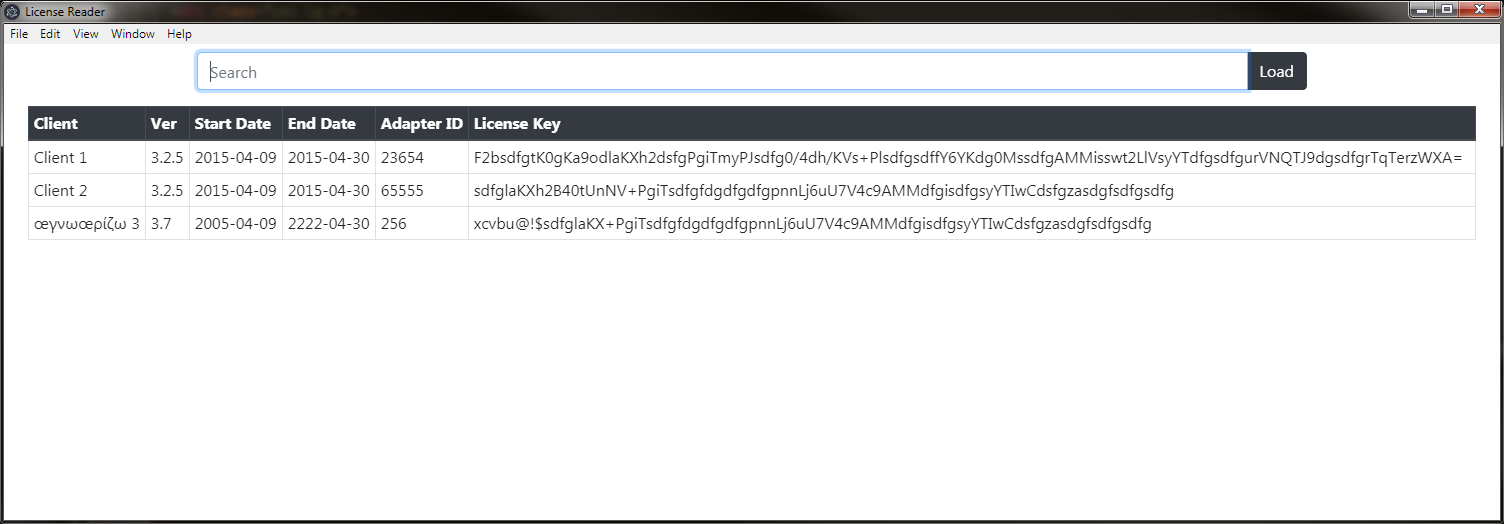
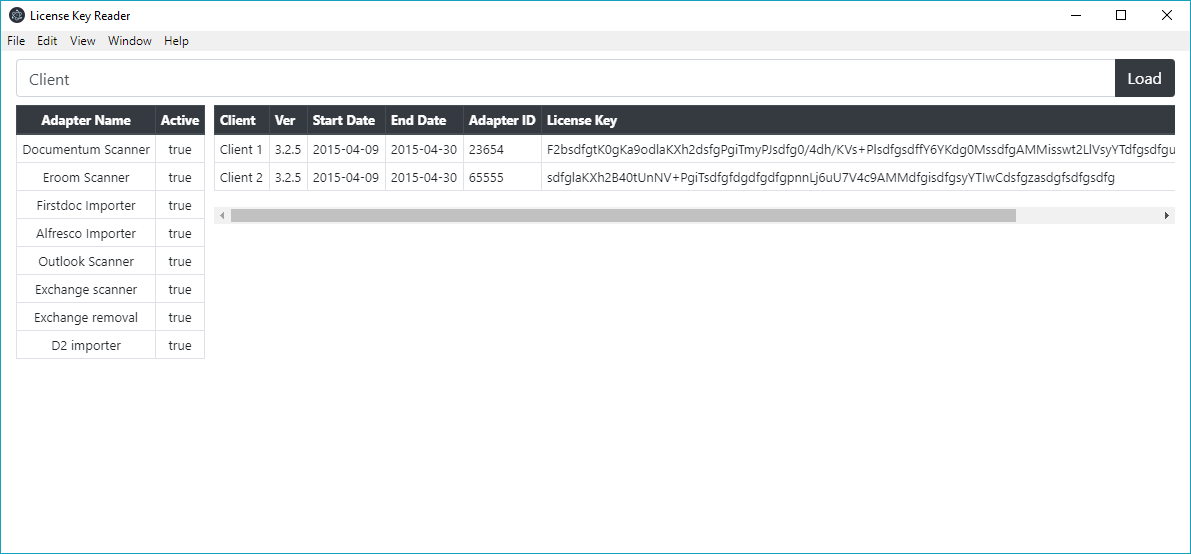
RC1 done

Changed region(s): [[0.0, 0.0, 1.0, 1.0]]

diff --git a/js/controller.js b/js/controller.js
@@ -4,7 +4,8 @@ window.Bootstrap = require('bootstrap')
 const LicenceList = require('./licenceList')
 
 var myLicences = null
-var licenseTable = document.getElementById('license-table')
+var tBody = document.getElementById('license-tbody')
+var aBody = document.getElementById('adapter-tbody')
 
 var loadButton = document.getElementById('loadButton')
 loadButton.addEventListener('click', _ => {
@@ -12,36 +13,20 @@ loadButton.addEventListener('click', _ => {
   // getLicences('//vms2/FileShare/MC/KeyGenerator/LicenseKeyLog.txt', './res/adapters.txt');
 })
 
-function insertTh (row, value) {
-  var cell = document.createElement('th')
-  cell.innerHTML = value
-  row.appendChild(cell)
+function licenseSelected (e) {
+  let adapterID = e.path[1].cells[4].innerHTML
+  myLicences.checkAdapters(adapterID, loadAdapterTable)
 }
 
 function insertTd (row, value) {
   var cell = document.createElement('td')
   cell.innerHTML = value
   row.appendChild(cell)
+  return cell
 }
 
-
 function loadLicenseTable () {
-  licenseTable.innerHTML = ''
-
-  let head = document.createElement('thead')
-  head.classList.add('thead-dark')
-  let row = document.createElement('tr')
-  insertTh(row, 'Client')
-  insertTh(row, 'Ver')
-  insertTh(row, 'Start Date')
-  insertTh(row, 'End Date')
-  insertTh(row, 'Adapter ID')
-  // insertTh(row, 'idk')
-  insertTh(row, 'License Key')
-  head.appendChild(row)
-  licenseTable.appendChild(head)
-
-  let body = document.createElement('tbody')
+  tBody.innerHTML = ''
   myLicences.licences.forEach((licence, index) => {
     let row = document.createElement('tr')
     insertTd(row, licence.companyName)
@@ -49,40 +34,28 @@ function loadLicenseTable () {
     insertTd(row, licence.beginDate)
     insertTd(row, licence.endDate)
     insertTd(row, licence.adapters)
-    // insertTd(row, licence.idkWhatThisis)
     insertTd(row, licence.licence)
-    body.appendChild(row)
+    row.classList.add('text-nowrap')
+    row.addEventListener('click', licenseSelected)
+    tBody.appendChild(row)
   })
-  licenseTable.appendChild(body)
-
-  var rows = body.getElementsByTagName('tr')
-  for (let i = 0; i < rows.length; i++) {
-    rows[i].addEventListener('click', (e) => {
-      let adapterID = e.path[1].cells[4].innerHTML
-      // myLicences.adapters[2].checkLicence(adapterID, loadAdapterTable)
-      myLicences.checkAdapters(adapterID, loadAdapterTable)
-      // console.log(e)
-      // console.log(adapterID)
-    })
-  }
 }
 
 function loadAdapterTable () {
-  let aBody = document.getElementById('adapter-tbody')
   aBody.innerHTML = ''
   myLicences.adapters.forEach((adapter) => {
     let row = document.createElement('tr')
     insertTd(row, adapter.name)
-    insertTd(row, adapter.isInLicence)
+    let td = insertTd(row, adapter.isInLicence)
+    if (td.innerHTML === 'true') {
+      row.classList.add('text-center', 'text-nowrap')
+      // row.classList.add('bg-success', 'text-white', 'text-center')
+    } else {
+      row.classList.add('d-none')
+      // row.classList.add('bg-white', 'text-dark', 'text-center')
+    }
     aBody.appendChild(row)
   })
-}
-
-function logData () {
-  console.log(myLicences)
-  // myLicences.adapters.forEach((adapter) => {
-  //   console.log(adapter.name + ': ' + adapter.isInLicence)
-  // })
 }
 
 function getLicences (licenceFile, adaptersFile) {

diff --git a/index.html b/index.html
@@ -13,6 +13,7 @@
 </head>
 
 <body>
+
   <div class="container-fluid my-2">
     <div class="row">
       <div class="col">
@@ -27,25 +28,35 @@
   </div>
 
   <div class="container-fluid d-flex">
-    <div class="row">
-      <div class="col-md-2 d-flex">
-        <table class="table table-sm table-bordered" id="adapter-table">
-          <thead class="thead-dark">
+    <div class="row d-flex flex-row">
+      <div class="col-md-2 d-flex flex-column">
+        <table class="table table-sm table-bordered table-hover" id="adapter-table">
+          <thead class="thead-dark text-center text-nowrap">
             <tr>
-              <td>Adapter Name</td>
-              <td>Active</td>
+              <th>Adapter Name</th>
+              <th>Active</th>
             </tr>
           </thead>
           <tbody id="adapter-tbody">
           </tbody>
         </table>
       </div>
-      <div class="col-md-10 d-flex">
-        <div class="container-fluid mx-2">
-          <div class="table-responsive">
-            <table class="table table-sm table-bordered table-hover" id="license-table">
-            </table>
-          </div>
+      <div class="col-md-10 d-flex flex-column">
+        <div class="table-responsive">
+          <table class="table table-sm table-bordered table-hover">
+            <thead class="thead-dark text-nowrap">
+              <tr>
+                <th>Client</th>
+                <th>Ver</th>
+                <th>Start Date</th>
+                <th>End Date</th>
+                <th>Adapter ID</th>
+                <th>License Key</th>
+              </tr>
+            </thead>
+            <tbody id="license-tbody">
+            </tbody>
+          </table>
         </div>
       </div>
     </div>
@@ -53,7 +64,7 @@
 
   <script>require('./js/controller')</script>
   <script>require('./js/filter.js')</script>
-  
+
 </body>
 
 </html>

diff --git a/js/licenceList.js b/js/licenceList.js
@@ -20,19 +20,18 @@ class Adapter {
   }
 
   checkLicence (licenseCode, done) {
-    this.isInLicence = !!((this.adapterID & licenseCode != 0))
-    console.log(licenseCode)
+    this.isInLicence = !!((parseInt(this.adapterID) & parseInt(licenseCode)) !== 0)
     done()
   }
 }
 
 class LicenceList {
   constructor () {
-    this.listHeaders = ['Client', 'Ver', 'Start', 'End', 'Adapter ID', 'idk', 'License Key']
     this.licences = []
     this.adapters = []
   }
 
+  // loadLicenses & loadAdapters need refactoring cause duplicate code
   loadLicences (fileName, updated) {
     let data = []
     const fs = require('fs')
@@ -47,7 +46,7 @@ class LicenceList {
       data.push(new LicenceItem(line))
     })
 
-    rl.on('close', () => {
+    rl.on('close', _ => {
       this.licences = data
       if (typeof (updated) === 'function') {
         updated()
@@ -81,10 +80,8 @@ class LicenceList {
     var len = this.adapters.length
     for (var i = 0; i < len; i++) {
       this.adapters[i].checkLicence(licenseCode, _ => {
-        if (i === len - 1) {
-          if (typeof (updated) === 'function') {
-            updated()
-          }
+        if ((i === len - 1) & (typeof (updated) === 'function')) {
+          updated()
         }
       })
     }

diff --git a/js/filter.js b/js/filter.js
@@ -1,7 +1,7 @@
 $(document).ready(function () {
   $('#license-search').on('keyup', function () {
     var value = $(this).val().toLowerCase()
-    $('#license-table tbody tr').filter(function () {
+    $('#license-tbody tr').filter(function () {
       $(this).toggle($(this).text().toLowerCase().indexOf(value) > -1)
     })
   })

diff --git a/app.js b/app.js
@@ -11,7 +11,7 @@ app.on('window-all-closed', function () {
 
 app.on('ready', function () {
   mainWindow = new BrowserWindow({
-    width: 1650,
+    width: 1200,
     height: 800,
     // 'min-width': 700,
     // 'min-height': 550,

diff --git a/css/licenseReader.css b/css/licenseReader.css
@@ -1,7 +1,3 @@
-tr td {
-  white-space: nowrap;
-}
-
-tr th {
-  white-space: nowrap;
+table {
+  font-size: 13px;
 }
